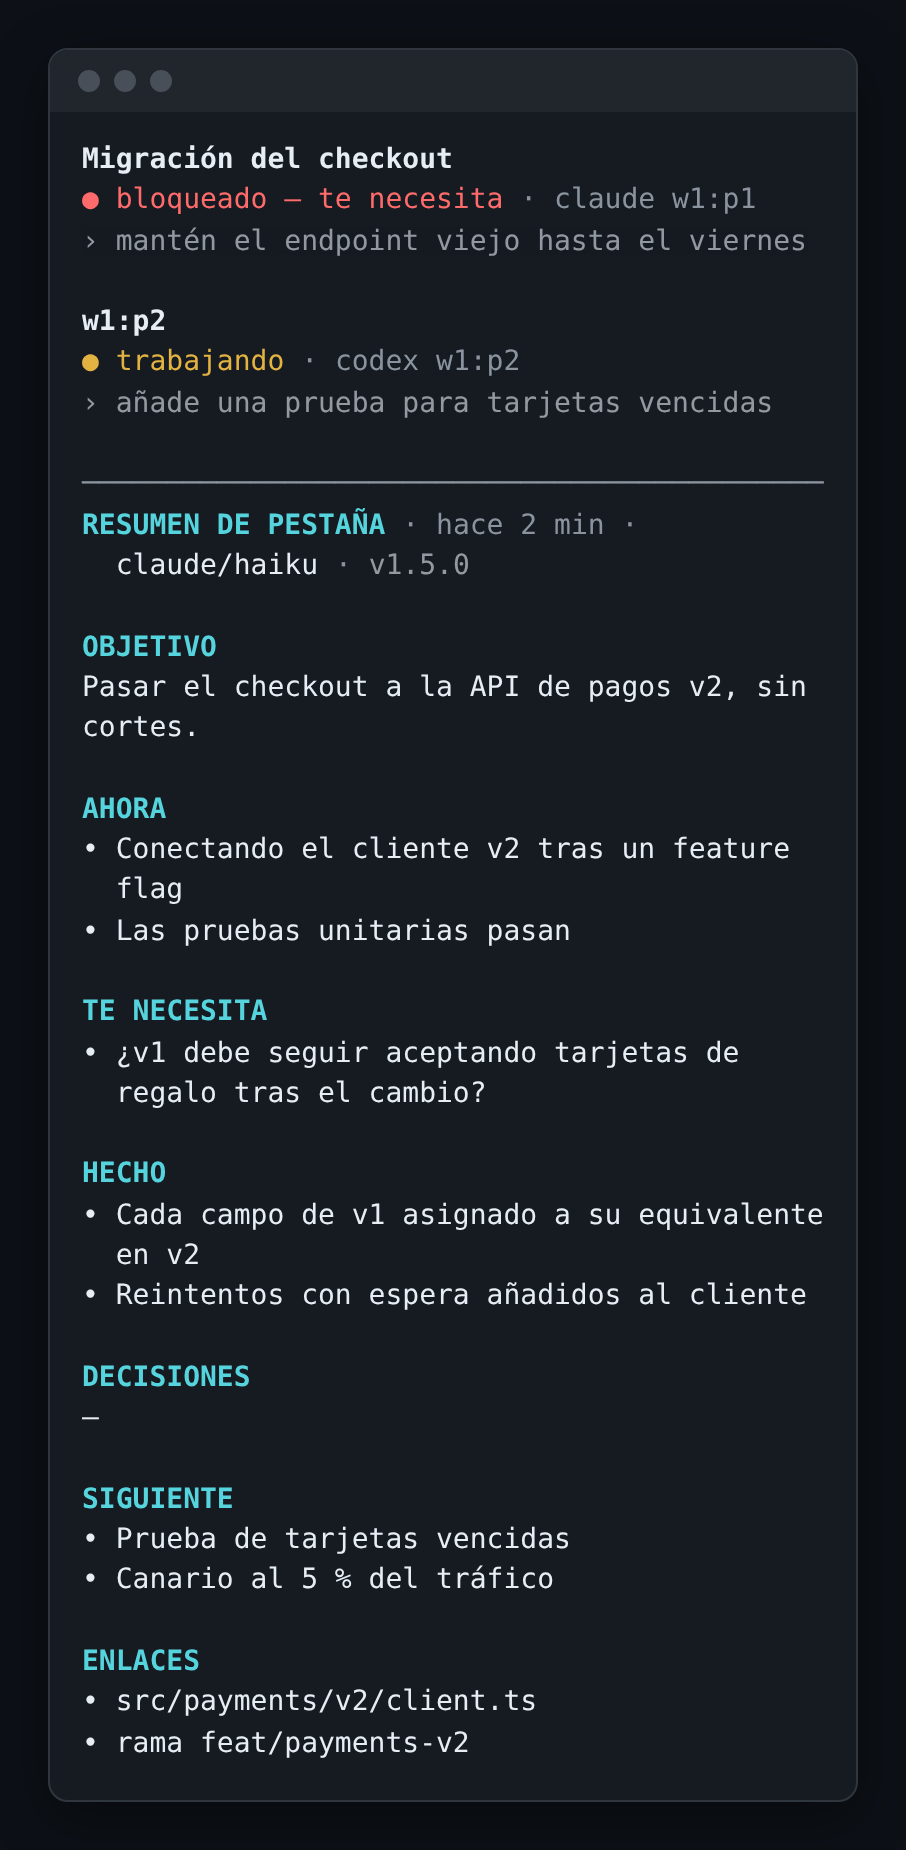
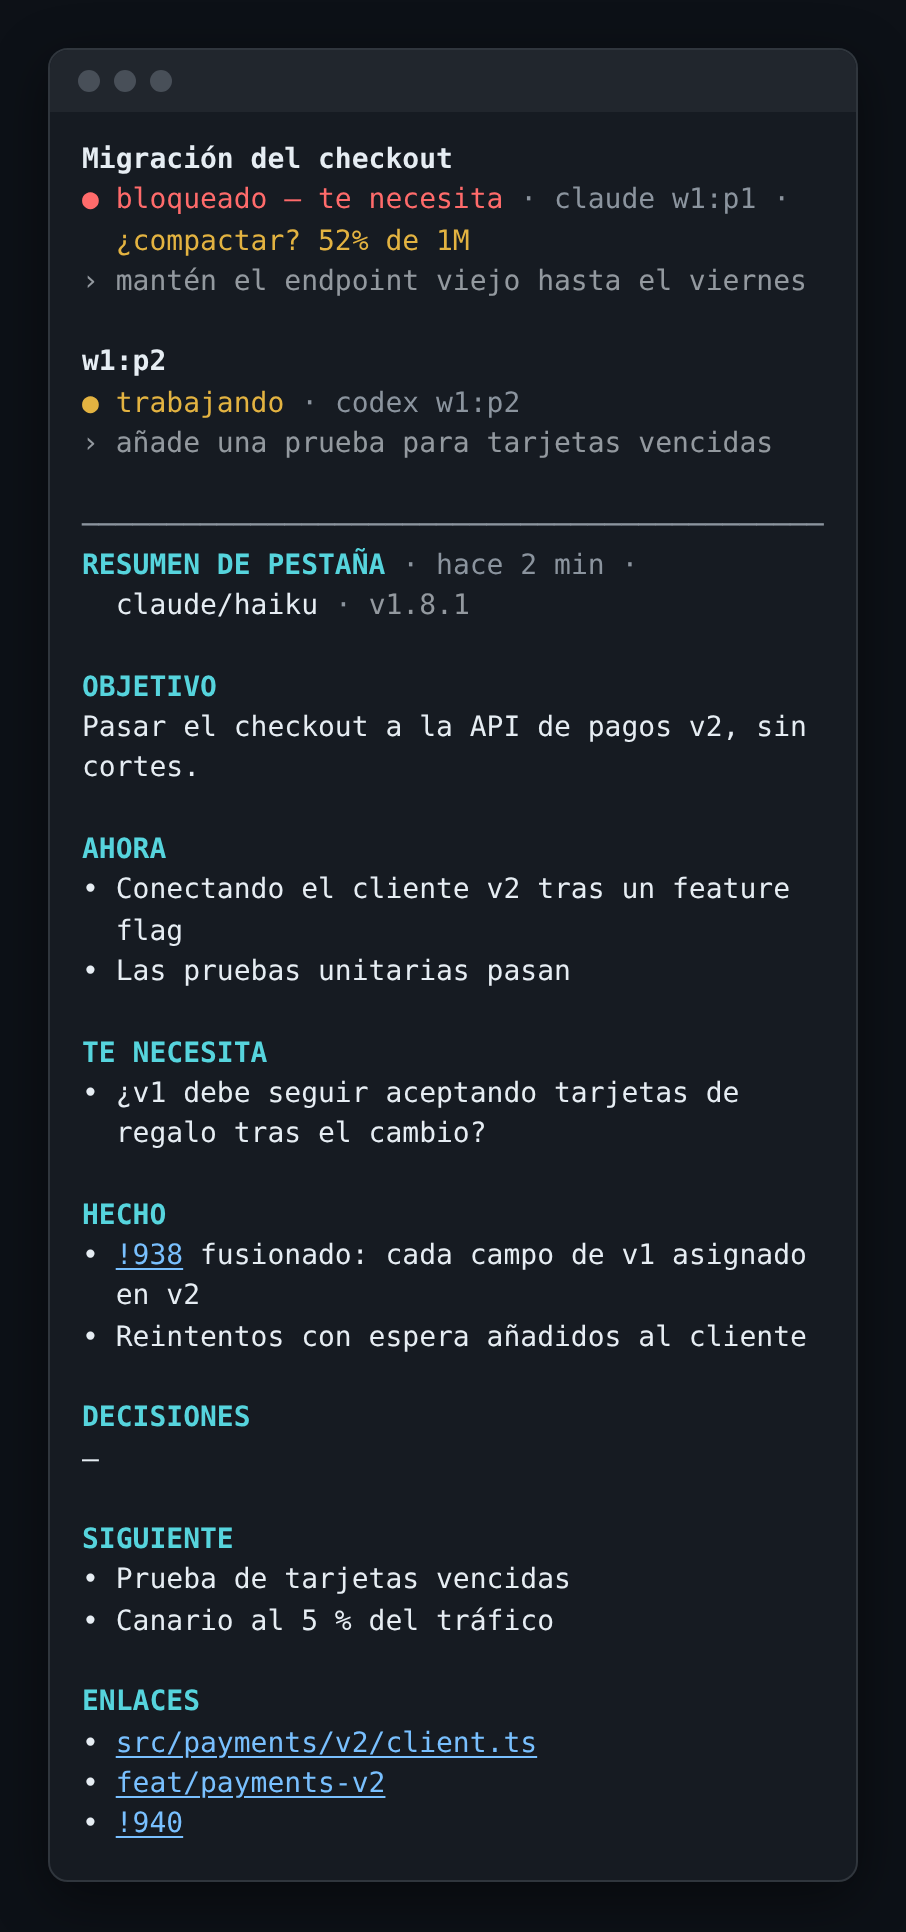
docs: regenerate the README screenshots for 1.8
The renderer draws OSC 8 links as underlined text, and the fixtures show
references (merge requests, a file, a branch) as links, the compact hint on a
lane at 52% of a 1M window, the new settings rows, and version 1.8.1.

diff --git a/tab-recap/docs/screens/render.ts b/tab-recap/docs/screens/render.ts
@@ -26,6 +26,9 @@ export interface Page {
 
 const ESC = String.fromCodePoint(0x1b);
 const SGR = new RegExp(`${ESC}\\[(\\d+)m`, 'g');
+/** OSC 8 hyperlink: `ESC ] 8 ; ; URL ESC \\ text ESC ] 8 ; ; ESC \\` (the column's clickable references). */
+const LINK = new RegExp(`${ESC}\\]8;;([^${ESC}]*)${ESC}\\\\([^${ESC}]*)${ESC}\\]8;;${ESC}\\\\`, 'g');
+const LINK_MARK = { open: '\u0001', close: '\u0002' };
 const NOW = 1_760_000_000_000;
 const COLOURS: Readonly<Record<number, string>> = { 31: '#ff6b6b', 32: '#7ee787', 33: '#e3b341', 34: '#79c0ff', 35: '#d2a8ff', 36: '#56d4dd', 90: '#8b949e' };
 const MEMO = '<svg class="memo" viewBox="0 0 16 16" aria-hidden="true"><rect x="3" y="1.5" width="10" height="13" rx="1.5" fill="#f0e6c8"/><path d="M5.5 5h5M5.5 8h5M5.5 11h3" stroke="#6b5d3a" stroke-width="1.2" stroke-linecap="round"/></svg>';
@@ -58,8 +61,9 @@ function apply(pen: Pen, code: number): void {
     }
 }
 
-/** One styled line (ANSI SGR, the only escapes the views use) as HTML spans. */
-export function lineToHtml(line: string): string {
+/** One styled line (ANSI SGR plus OSC 8 links, the only escapes the views use) as HTML spans; links are underlined. */
+export function lineToHtml(raw: string): string {
+    const line = raw.replace(LINK, (_all, _url: string, text: string) => `${LINK_MARK.open}${text}${LINK_MARK.close}`);
     const pen: Pen = { bold: false, dim: false, italic: false, colour: null };
     const out: string[] = [];
     let at = 0;
@@ -68,7 +72,8 @@ export function lineToHtml(line: string): string {
             return;
         }
         const style = pen.colour === null ? '' : ` style="color:${pen.colour}"`;
-        out.push(`<span class="${classOf(pen)}"${style}>${escapeHtml(text).replaceAll('📝', `${MEMO} `)}</span>`);
+        const body = escapeHtml(text).replaceAll('📝', `${MEMO} `).replaceAll(LINK_MARK.open, '<u class="a">').replaceAll(LINK_MARK.close, '</u>');
+        out.push(`<span class="${classOf(pen)}"${style}>${body}</span>`);
     };
     for (const found of line.matchAll(SGR)) {
         emit(line.slice(at, found.index));
@@ -88,6 +93,7 @@ body { padding: 24px; display: inline-block; }
 pre { margin: 0; padding: 14px 16px 18px; color: #e6edf3; font: inherit; white-space: pre; }
 .b { font-weight: 700; } .d { opacity: .6; } .i { font-style: italic; }
 .memo { width: 1.1em; height: 1.1em; vertical-align: -0.2em; }
+.a { color: #79c0ff; text-decoration: underline; text-underline-offset: 2px; }
 `;
 
 function page(name: string, width: number, lines: readonly string[]): Page {
@@ -116,10 +122,10 @@ const FIXTURES: Readonly<Record<'en' | 'es', Fixture>> = {
             goal: 'Move checkout to the v2 payments API, no downtime.',
             now: ['Wiring the v2 client behind a feature flag', 'Unit tests are green'],
             needs: ['Should v1 keep accepting gift cards after the cut-over?'],
-            done: ['Mapped every v1 field to its v2 equivalent', 'Added retries with backoff to the client'],
+            done: ['!938 merged: every v1 field mapped to v2', 'Added retries with backoff to the client'],
             decisions: [],
             next: ['Test for expired cards', 'Canary at 5% of traffic'],
-            links: ['src/payments/v2/client.ts', 'branch feat/payments-v2'], rules: [],
+            links: ['`src/payments/v2/client.ts`', '`feat/payments-v2`', '!940'], rules: ['Never push to main'],
         },
     },
     es: {
@@ -131,30 +137,34 @@ const FIXTURES: Readonly<Record<'en' | 'es', Fixture>> = {
             goal: 'Pasar el checkout a la API de pagos v2, sin cortes.',
             now: ['Conectando el cliente v2 tras un feature flag', 'Las pruebas unitarias pasan'],
             needs: ['¿v1 debe seguir aceptando tarjetas de regalo tras el cambio?'],
-            done: ['Cada campo de v1 asignado a su equivalente en v2', 'Reintentos con espera añadidos al cliente'],
+            done: ['!938 fusionado: cada campo de v1 asignado en v2', 'Reintentos con espera añadidos al cliente'],
             decisions: [],
             next: ['Prueba de tarjetas vencidas', 'Canario al 5 % del tráfico'],
-            links: ['src/payments/v2/client.ts', 'rama feat/payments-v2'], rules: [],
+            links: ['`src/payments/v2/client.ts`', '`feat/payments-v2`', '!940'], rules: ['Nunca hacer push a main'],
         },
     },
 };
+
+/** Invented repository: references in the recap link to it (drawn underlined). */
+const WEB = { base: 'https://git.example/team/shop', forge: 'gitlab', branch: 'feat/payments-v2' } as const;
+const VERSION = '1.8.1';
 
 const lane = (pane: string, agent: string, prompt: string, title: string | null): TabRecap['lanes'][number] =>
     ({ pane, agent, transcript: `${agent}.jsonl`, cursor: 1, tail: null, title, lastPrompt: prompt, claudeRecap: null });
 
 function columnView(fixture: Fixture): ColumnView {
     const tab: TabView = {
-        tab: 'w1:t1', column: 'w1:p9', at: NOW, daemonVersion: '1.5.0',
+        tab: 'w1:t1', column: 'w1:p9', at: NOW, daemonVersion: VERSION,
         lanes: [
-            { pane: 'w1:p1', agent: 'claude', status: 'blocked', title: fixture.title, cwd: null, lastPrompt: null },
-            { pane: 'w1:p2', agent: 'codex', status: 'working', title: null, cwd: null, lastPrompt: null },
+            { pane: 'w1:p1', agent: 'claude', status: 'blocked', title: fixture.title, cwd: null, lastPrompt: null, web: WEB, context: { tokens: 520_000, window: 1_000_000, source: 'catalogue' } },
+            { pane: 'w1:p2', agent: 'codex', status: 'working', title: null, cwd: null, lastPrompt: null, web: WEB, context: { tokens: 61_000, window: 258_400, source: 'agent' } },
         ],
     };
     const recap: TabRecap = {
         ...blankRecap('w1:t1'), at: NOW - 120_000, backend: fixture.backend, tasks: [{ id: 't1', name: '', lanes: ['w1:p1', 'w1:p2'], sections: fixture.sections, markdown: renderRecap(fixture.sections, fixture.messages.locale) }],
         lanes: [lane('w1:p1', 'claude', fixture.prompts[0], fixture.title), lane('w1:p2', 'codex', fixture.prompts[1], null)],
     };
-    return { tab, recap, notes: new Map(), warnings: [], now: NOW, messages: fixture.messages, version: '1.5.0' };
+    return { tab, recap, notes: new Map(), warnings: [], now: NOW, messages: fixture.messages, version: VERSION, compactHint: 40 };
 }
 
 function setupState(locale: 'en' | 'es'): Setup {
